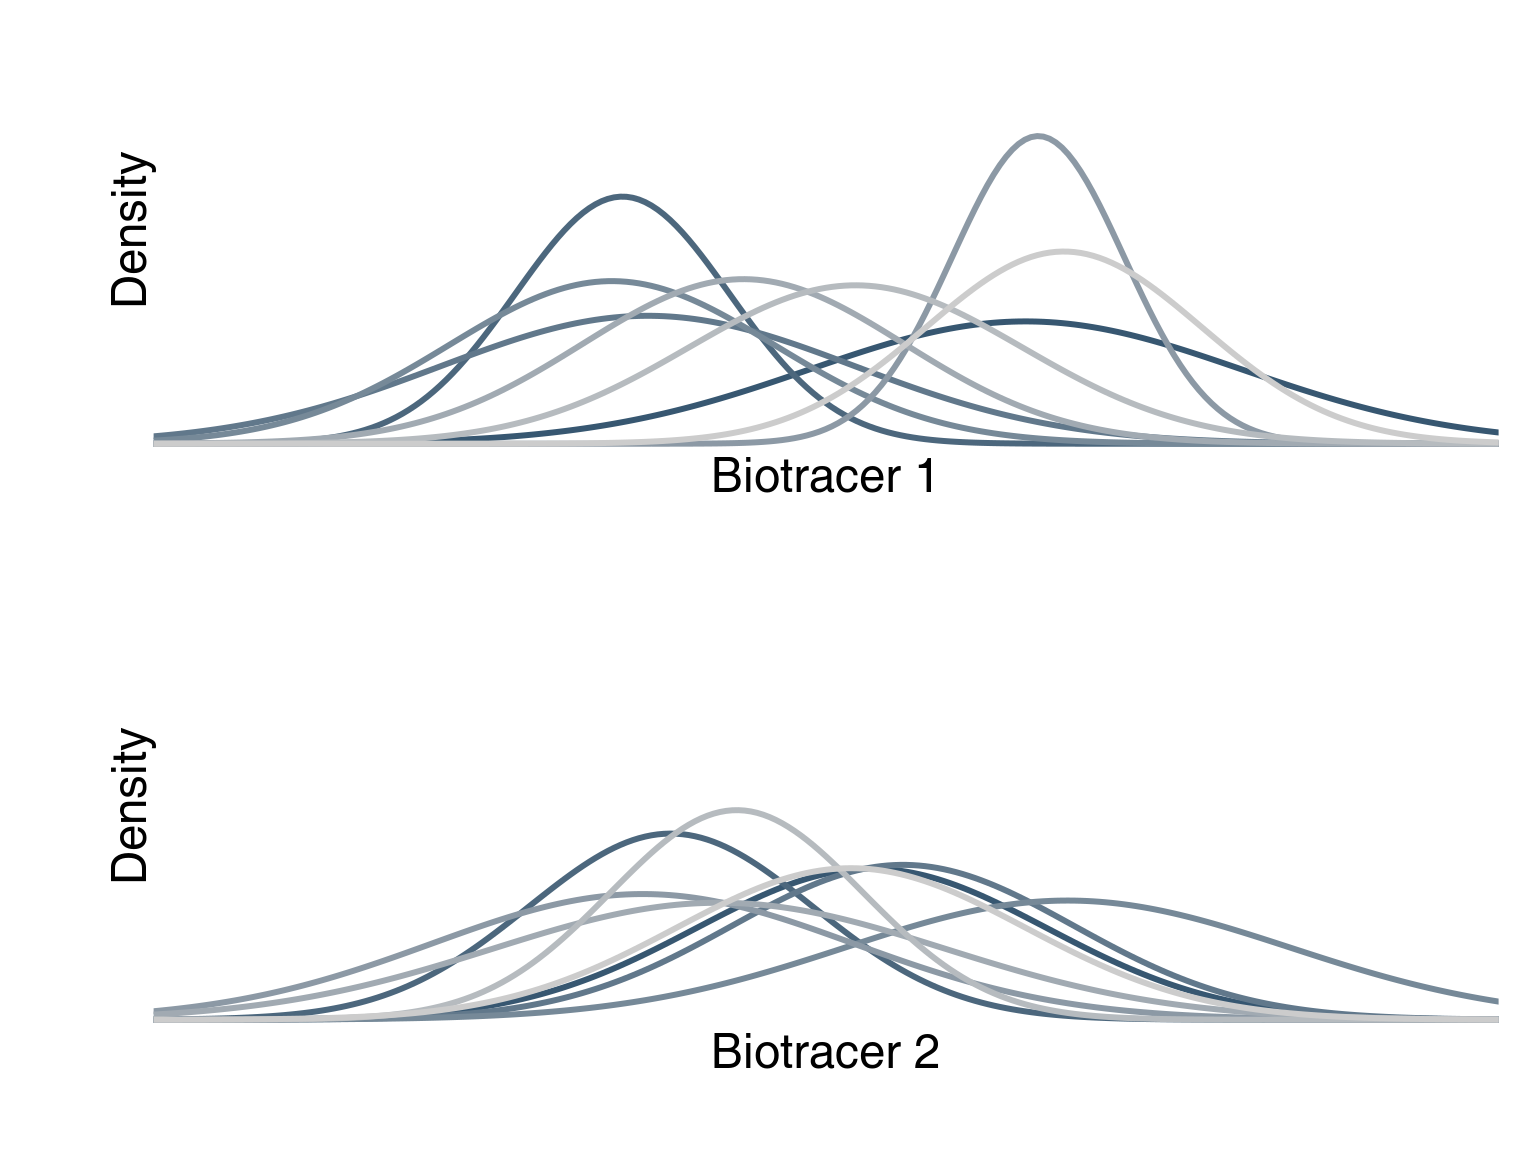
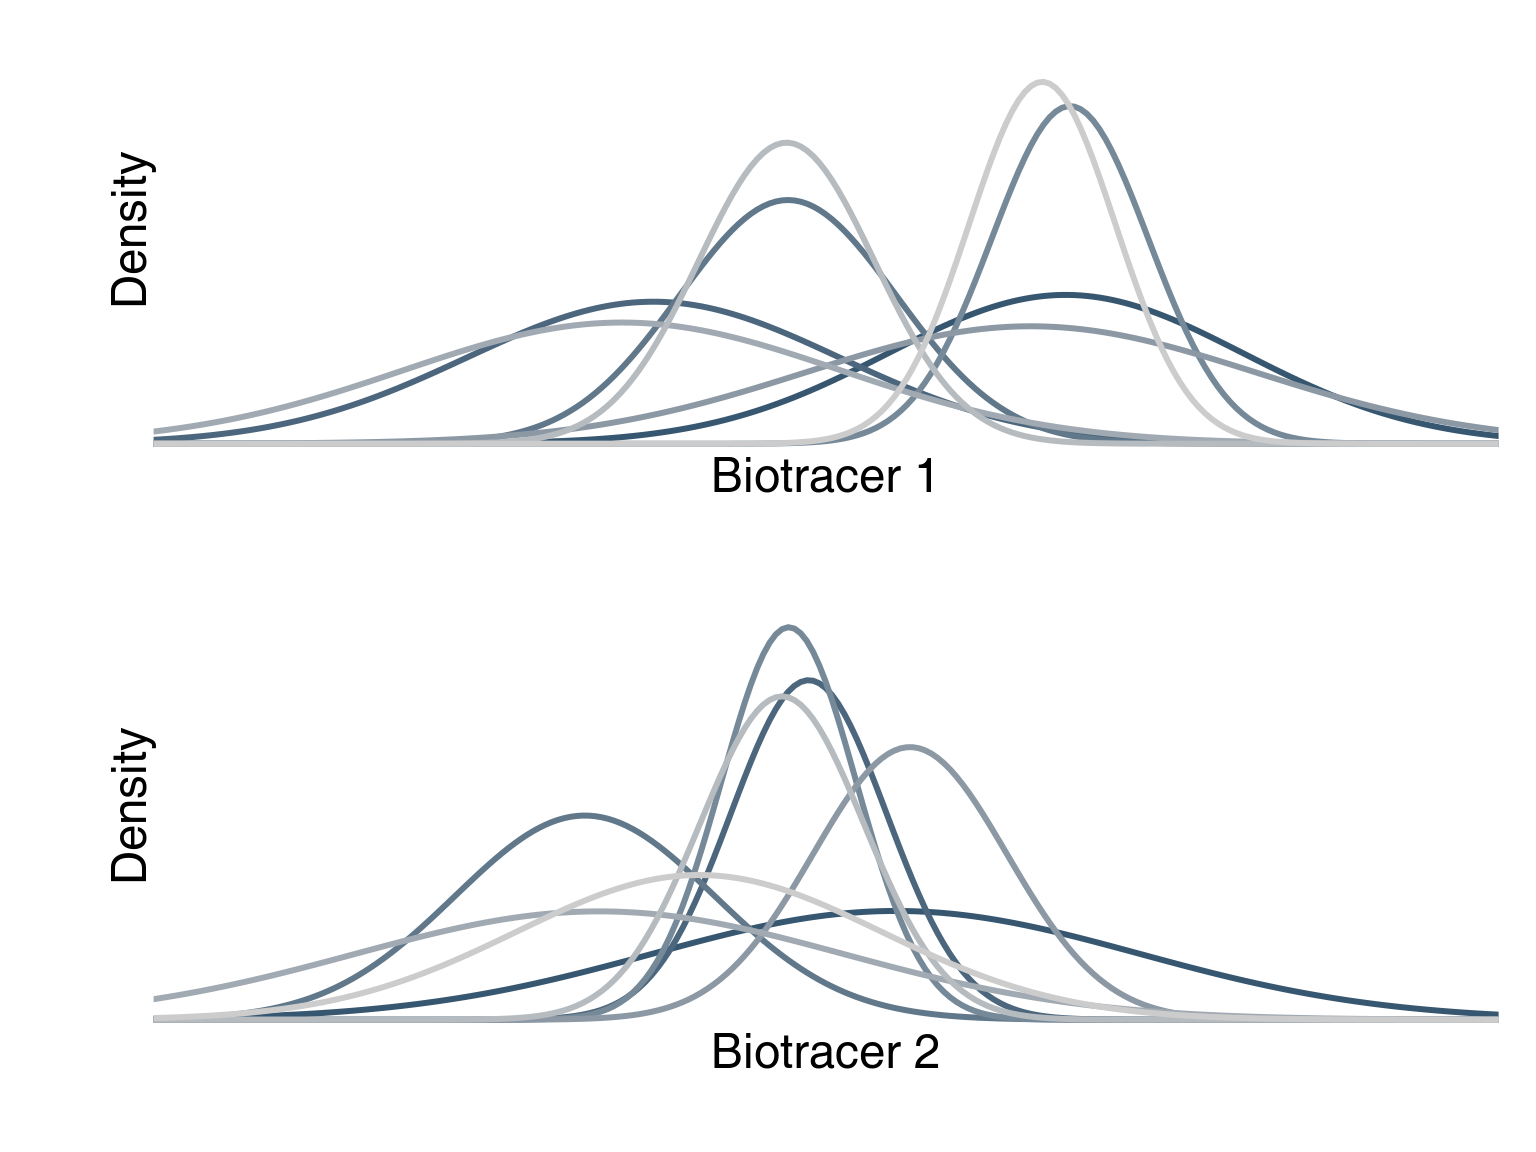
outline methods part

diff --git a/index.html b/index.html
@@ -21,7 +21,7 @@
 
 ## &lt;i class="fa fa-angle-double-right" aria-hidden="true"&gt;&lt;/i&gt; Fighting noise with dimensionality
 
-##### The more the spatial biotracers the better!
+##### The more biotracers the better!
 
 &lt;br&gt;&lt;br&gt;
 
@@ -69,9 +69,9 @@ class: inverse, center, middle
 
 ### 1. I won't talk about any trophic interaction
 
-### 2. Fish? yes
+### 2. Fish? hum, yes!
 
-### 3. Genreal ideas about inference (I'm more the technical guy here)
+### 3. General ideas about inference (I'm the technical guy here)
 
 ### 4. Not trying to reinvent the wheel
 
@@ -87,66 +87,75 @@ class: inverse, center, middle
 
 ## The push for provenance
 
-&lt;!-- Country-of-Origin Labeling (COOL) --&gt;
-
-truthful product informatio
 
 ---
 # The push for provenance
 
 - Mean distance; food miles increased
-- Zone where sustaianle other where not
-- Fishing also zone where it is legal an other where it is not
-- Where it comes from for sustainailty
+- Zone where sustainable other not
+- Zone where fishing is legal other where it is not
+- Comsumer right-to-know
+- Truthful product information
 
+&lt;!-- any produc e.g. fish palm oil globalization  --&gt;
+&lt;!-- Country-of-Origin Labeling (COOL) --&gt;
 
 ---
 # Biotracers
 
-- anything:
-  - trace elements,
-  - isotoped signature,
-  - genetics data,
-  - gut contents,
-  - ...
+#### Anything that could be informative:
 
-- But why 1? Why not building a Spatial fringer print
+- trace elements,
+- isotoped signature,
+- genetics data,
+- gut contents,
+- etc.
+
+
+#### A "silver bullet" or a "shotgut shell"?
+
+- Finding the best biotracers
+- Or using together and build spatial fringerprint
+
+---
+# Questions
+
+#### Where does it come from?
+
+#### How to combine multiple source of information in this context?
+
+
+&lt;!-- https://www.alaskankingcrab.com/blogs/resources/blog-learn-fishing-for-king-crab --&gt;
+
 
 
 ---
 # Study case
 
-## King
+&lt;br&gt;
 
-https://thefishsite.com/articles/alaska-fish-factor-king-crab-fishers-welcome-crack-down-on-illegal-fishing
-https://www.alaskankingcrab.com/blogs/resources/blog-learn-fishing-for-king-crab
+![](img/mapKC.png)
+
+1. Bering sea
+2. Okhotsk sea
+3. Barents sea
+
 
 ---
-## Questions
+# Study case
 
-### Where this crab is from?
+#### Where does this King crab come from?
 
-#### The
+- [consumer right-to-know](http://thehill.com/blogs/congress-blog/education/214268-consumers-have-a-right-to-know-where-their-food-comes-from)
+- sustainable fishery?
 
-http://thehill.com/blogs/congress-blog/education/214268-consumers-have-a-right-to-know-where-their-food-comes-from
+#### Has it been caught illegaly?
 
-#### Caught illegally?
-
-### Where does the
-Where
-
----
-# Questions
-
----
-class: inverse, center, middle
-
-# Questions
-
-## The push for provenance
+- illegal zone of fishery
+- [caught illegaly](https://thefishsite.com/articles/alaska-fish-factor-king-crab-fishers-welcome-crack-down-on-illegal-fishing)
 
 
-&lt;!-- 3 slides fish palm oil globalization  --&gt;
+
 
 
 ---
@@ -179,6 +188,15 @@ class: inverse, center, middle
 
 ---
 # Basic ideas - more dimensions
+
+&lt;img src="index_files/figure-html/fig4-1.png" width="768" style="display: block; margin: auto;" /&gt;
+
+
+---
+# Basic ideas - more dimensions
+
+&lt;img src="index_files/figure-html/fig5-1.png" width="768" style="display: block; margin: auto;" /&gt;
+
 
 
 ---
